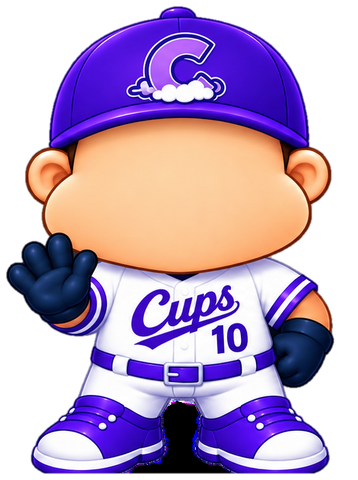
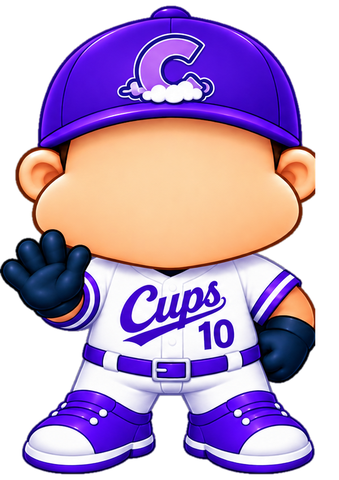
두더지팡 사진관 첫화면 2차 보완 (v684)
사용자 피드백("전혀 기대에 부흥하고 있지 않아") 반영.

- 엠블럼 박스를 불투명 파란색(gradient)으로 변경 — 배경사진이 비쳐 산만하던
  문제 해결.
- 얼굴형 카드 프레임을 캐릭터 이미지 평균 비율(0.74)에 맞춰 재설계 — 기존엔
  슬롯 전체(길쭉한 직사각형)로 늘어나 캐릭터 위아래로 빈 공간이 컸던 것을,
  프레임 자체를 캐릭터에 맞는 크기로 잡고 슬롯 안에서 중앙정렬해 캐릭터가
  카드를 훨씬 크게 채우게 함(카드 밖으로는 안 나감).
- 캐릭터 이미지를 하단 정렬(object-position: bottom)로 바꿔 발판과 붙어
  보이게 함.
- 돋보기를 전체파란박스 밖, #inventory-screen 최상단(티커 바로 밑) 고정
  버튼으로 완전히 재배치(사용자: "게임화면 모서리로 아예 옮겨라") — 위치는
  추후 추가 조정 예정.
- 클라우드컵스: 사용자가 직접 재작업해 제공한 원본으로 재추출 + 인접
  캐릭터끼리 손이 살짝 겹쳐있어 생기던 옆캐릭터 끼임 버그도 경계선 안쪽
  트리밍으로 수정.

Changed region(s): [[0.0, 0.0, 0.944, 1.0]]

diff --git a/mole/style.css b/mole/style.css
@@ -3808,20 +3808,23 @@ body { background: var(--lm-page); }
 }
 /* 사용자 지정: 돋보기는 정사각형 영역 최우측 상단 모서리에 독립적으로(엠블럼 줄 폭
    계산과 무관하게 항상 코너에 고정, 살짝 겹쳐도 됨). */
-.photo-search-btn {
-  position: absolute; right: 3px; top: 3px; z-index: 6; width: 26px; height: 26px; border-radius: 50%;
+/* 사용자 지정: "돋보기는 게임화면 모서리로 아예 옮겨라, 티커 바로 밑" — 전체파란박스
+   밖, #inventory-screen 최상단 코너에 고정(위치는 추후 재조정 예정). */
+.inv-photo-search {
+  width: 28px; height: 28px; border-radius: 50%;
   border: 2px solid #ffd93b; background: linear-gradient(180deg, #2f6fed, #1c3f96); color: #fff;
-  font-size: 0.75rem; display: flex; align-items: center; justify-content: center; cursor: pointer;
+  font-size: 0.8rem; display: flex; align-items: center; justify-content: center; cursor: pointer;
   box-shadow: 0 2px 4px rgba(0,0,0,0.4);
 }
+#inventory-screen > .inv-photo-search { position: absolute; top: 4px; right: 6px; z-index: 6; }
 /* 사용자 지정: "엠블럼 박스는 전체 박스 좌/우/위쪽 여백 0.1cm로, 최대한 크게". */
 .photo-emblems { position: relative; z-index: 2; display: flex; justify-content: center; gap: 4px;
   padding: 0.1cm 0.1cm 4px; }
-/* 사용자 지정: "엠블럼은 박스 안에 있게(각각 박스 안에 엠블럼이 있게)" — 선택 여부와
-   무관하게 항상 카드형 박스 안에 담는다. */
+/* 사용자 지정: "엠블럼은 박스 안에 있게" + "엠블럼 박스는 투명이면 안됨, 파란박스로" —
+   선택 여부와 무관하게 항상 불투명 파란 박스 안에 담는다(배경사진이 안 비침). */
 .photo-emblem { flex: 1 1 0; min-width: 0; max-width: 20%; padding: 3px; border-radius: 8px;
-  border: 2px solid rgba(255,255,255,0.4); background: rgba(10,20,50,0.55); cursor: pointer;
-  box-shadow: inset 0 1px 2px rgba(255,255,255,0.2); }
+  border: 2px solid rgba(255,255,255,0.4); background: linear-gradient(180deg, #2a5cc9, #1c3f96);
+  cursor: pointer; box-shadow: inset 0 1px 2px rgba(255,255,255,0.2); }
 .photo-emblem--on { background: rgba(255,217,59,0.35); border-color: #ffd93b; box-shadow: 0 0 0 2px #ffd93b; }
 .photo-emblem img { width: 100%; height: auto; object-fit: contain; display: block; }
 
@@ -3830,17 +3833,22 @@ body { background: var(--lm-page); }
 .photo-slots { position: relative; z-index: 2; flex: 1 1 auto; min-height: 0; display: flex; gap: 3px;
   padding: 4px 0.1cm; }
 .photo-slot { flex: 1 1 0; min-width: 0; display: flex; flex-direction: column; align-items: center;
-  gap: 3px; background: none; border: none; cursor: pointer; }
+  justify-content: center; gap: 3px; background: none; border: none; cursor: pointer; }
+/* 사용자 지정: "카드 크기에 맞게 케릭 사이즈 최대한 크게, 카드 벗어나면 안됨" — 프레임을
+   슬롯 전체(길쭉한 직사각형)로 늘리면 캐릭터 비율과 안 맞아 위아래가 뜬다. 프레임 자체를
+   캐릭터 이미지 평균 비율에 맞춰(세로가 남으면 슬롯 안에서 위아래 중앙정렬) 캐릭터가
+   프레임을 거의 꽉 채우게 한다. */
 .photo-slot-frame {
-  position: relative; width: 100%; height: 100%; border-radius: 10px;
+  position: relative; width: 100%; aspect-ratio: 0.74; max-height: 100%; border-radius: 10px;
   background: rgba(20,40,90,0.55); border: 2px solid #4a90f5; display: flex; align-items: center;
   justify-content: center; overflow: hidden;
 }
 .photo-slot--sel .photo-slot-frame { border-color: #ffd93b; box-shadow: inset 0 0 0 2px #ffd93b, 0 0 10px 2px rgba(255,217,59,0.7); }
-/* 사용자 지정: "카드안 케릭 신발 밑에는 에셋6의 원 구조물을 넣으세요"(선택=골드/그외=블루). */
-.photo-slot-pedestal { position: absolute; left: 50%; bottom: 6%; width: 82%; height: auto;
+/* 사용자 지정: "케릭 신발 밑에는 에셋6의 원 구조물을"(선택=골드/그외=블루), 발과 붙게 배치. */
+.photo-slot-pedestal { position: absolute; left: 50%; bottom: 4%; width: 88%; height: auto;
   transform: translateX(-50%); z-index: 1; }
-.photo-slot-img { position: relative; z-index: 2; width: 100%; height: 100%; object-fit: contain; }
+.photo-slot-img { position: relative; z-index: 2; width: 100%; height: 100%; object-fit: contain;
+  object-position: bottom center; }
 .photo-slot-img--locked, .photo-coll-card-img--locked, .photo-zoom-img--locked { filter: grayscale(1) brightness(0.7); }
 .photo-slot-applied { position: absolute; right: 3px; top: 3px; width: 16px; height: 16px; border-radius: 50%;
   background: #57d977; color: #fff; font-size: 10px; font-weight: 900; display: flex; align-items: center;

diff --git a/mole/js/inventory-screen.js b/mole/js/inventory-screen.js
@@ -88,6 +88,13 @@
     var bannerEl = el.querySelector('.inv-banner');
     var cosLogoEl = el.querySelector('.inv-cos-logo');
     var cosPeekMoleEl = el.querySelector('.inv-cos-peek-mole');
+    var photoSearchBtn = el.querySelector('.inv-photo-search');
+    if (photoSearchBtn) {
+      photoSearchBtn.addEventListener('click', function () {
+        photoCollectionOpen = true;
+        renderPhotoCollection();
+      });
+    }
     var headEl = el.querySelector('.inv-cards-head');
     var dotsEl = el.querySelector('[data-inv-dots]');
     var prevBtn = el.querySelector('[data-inv-prev]');
@@ -506,11 +513,11 @@
     // 이름/효과/게임적용 + 우측 상단 돋보기(전체 컬렉션 진입).
     function renderPhoto() {
       var PS = MG.PhotoStudio;
-      // 사용자 지정(2026-09-26): 하단 이름/효과/게임적용 바 + 투명박스 전부 삭제,
-      // 돋보기는 정사각형 영역 최우측 상단 모서리로 독립 이동(엠블럼 줄과 안 겹침).
+      // 사용자 지정(2026-09-26): 하단 이름/효과/게임적용 바 + 투명박스 전부 삭제.
+      // 돋보기는 전체파란박스 밖(#inventory-screen 최상단 코너)의 별도 고정 버튼으로
+      // 이동(paint()에서 탭별로 토글, create()에서 클릭 1회만 배선).
       body.innerHTML =
         '<div class="photo-square">' +
-          '<button type="button" class="photo-search-btn" data-photo-search aria-label="전체 컬렉션">🔍</button>' +
           '<div class="photo-emblems" data-photo-emblems></div>' +
           '<div class="photo-slots" data-photo-slots></div>' +
         '</div>';
@@ -547,11 +554,6 @@
         slot.querySelector('.photo-slot-ribbon').textContent = T(PHOTO_FACE_I18N[f.id]);
         slot.addEventListener('click', function () { photoFace = f.id; renderPhoto(); });
         slotsEl.appendChild(slot);
-      });
-
-      body.querySelector('[data-photo-search]').addEventListener('click', function () {
-        photoCollectionOpen = true;
-        renderPhotoCollection();
       });
     }
 
@@ -739,6 +741,7 @@
       if (cosLogoEl) cosLogoEl.hidden = active !== 'costume';
       // 좌측 상단 바깥쪽 두더지도 코스튬 탭 전용.
       if (cosPeekMoleEl) cosPeekMoleEl.hidden = active !== 'costume';
+      if (photoSearchBtn) photoSearchBtn.hidden = active !== 'photo';
       if (active === 'weapon') {
         renderWeapons();
       } else if (active === 'costume') {

diff --git a/mole/index.html b/mole/index.html
@@ -498,6 +498,9 @@
              위치, 전체파란박스는 전광판 아래에 위치") — 코스튬 탭 전용이라 다른 탭에서는
              hidden, paint()가 탭 전환마다 토글. -->
         <img class="inv-cos-logo" alt="" src="assets/costume/logo.png" hidden>
+        <!-- 사진관 전체컬렉션 돋보기(사용자 지정: "게임화면 모서리로 아예 옮겨라, 티커
+             바로 밑") — 전체파란박스 밖, 화면 최상단 코너에 고정. 사진관 탭 전용. -->
+        <button type="button" class="inv-photo-search" data-photo-search aria-label="전체 컬렉션" hidden>🔍</button>
         <div class="inv-banner">
           <img alt="" class="inv-banner-pic" src="assets/avatar-mole.png">
           <span class="inv-banner-txt" data-inv-banner-txt>어떤 무기를 고르시겠어요?</span>
@@ -561,7 +564,7 @@
       <div id="lane-button-bar">
         <!-- 배포 버전 표식(스크린샷으로 어느 버전인지 확인용) — 화면 좌하단에 두면 다른 UI에
              가려 잘 안 보인다는 사용자 지적으로, 하트 아이콘(다이얼패드 1번 칸) 바로 위로 이동. -->
-        <div id="build-tag" aria-hidden="true">v683</div>
+        <div id="build-tag" aria-hidden="true">v684</div>
         <!-- 피버타임(터치캐치 보너스타임) 전광판 — 버튼보드 자리를 통째로 덮는 오버레이,
              평소엔 hidden, 피버 중에만 콤보/잔여시간 표시(사용자 지정: "전광판처럼"). -->
         <div id="fever-scoreboard" class="fever-scoreboard" hidden>
@@ -727,7 +730,7 @@
       } else {
         // ?v= 로 매 배포마다 URL을 바꿔서 GitHub Pages의 sw.js 캐시(max-age=600)를 무조건 우회 —
         // 안 그러면 배포 직후에도 최대 10분간 옛 서비스워커가 안 갈리는 경우가 있었음(사용자 보고).
-        navigator.serviceWorker.register('sw.js?v=683').catch(function () {});
+        navigator.serviceWorker.register('sw.js?v=684').catch(function () {});
       }
     });
   }

diff --git a/mole/sw.js b/mole/sw.js
@@ -3,7 +3,7 @@
 // 폴백 전용으로만 갱신한다. (예전엔 stale-while-revalidate라 배포해도 "다음 실행"에야
 // 반영돼 사용자 체감 대기가 길었음 — 온라인=항상 최신, 오프라인=마지막 캐시로 변경.)
 // SHELL 목록 자체가 바뀔 때만 CACHE 를 올린다.
-const CACHE = 'mole-game-v683';
+const CACHE = 'mole-game-v684';
 
 // 화면별 BGM(audio/bgm-*.mp3)은 v275 부터 SHELL 에 포함 — 기본 켜짐(v272)이라 항상 필요하고,
 // 캐시가 안 돼 있으면 오프라인/느린망에서 재생 실패했음.
